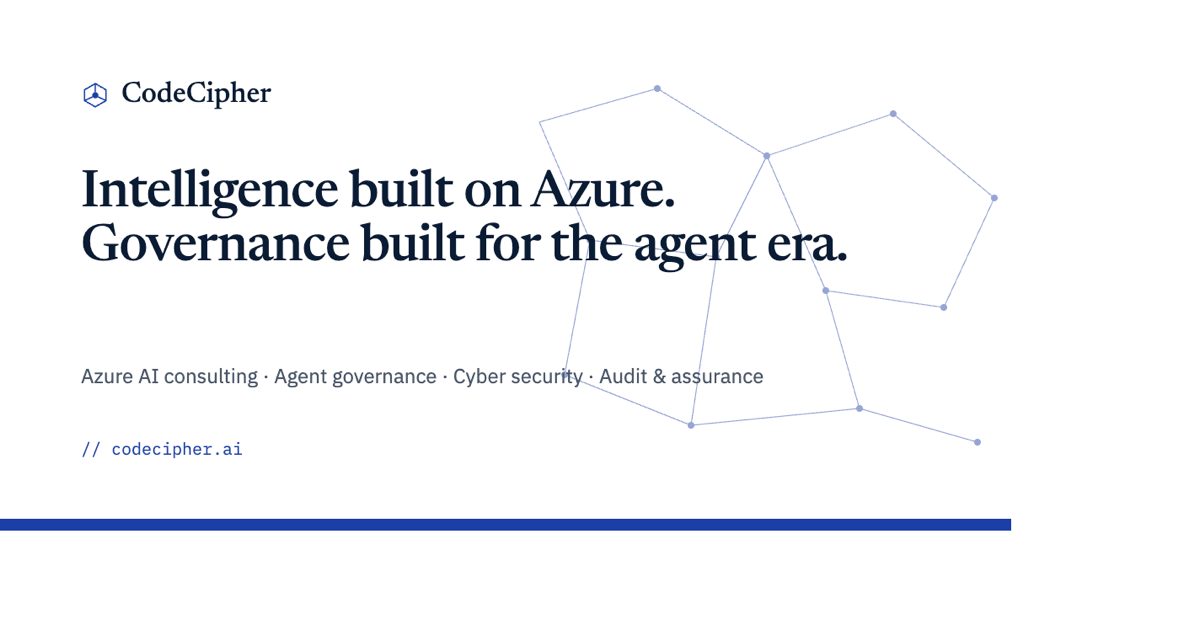
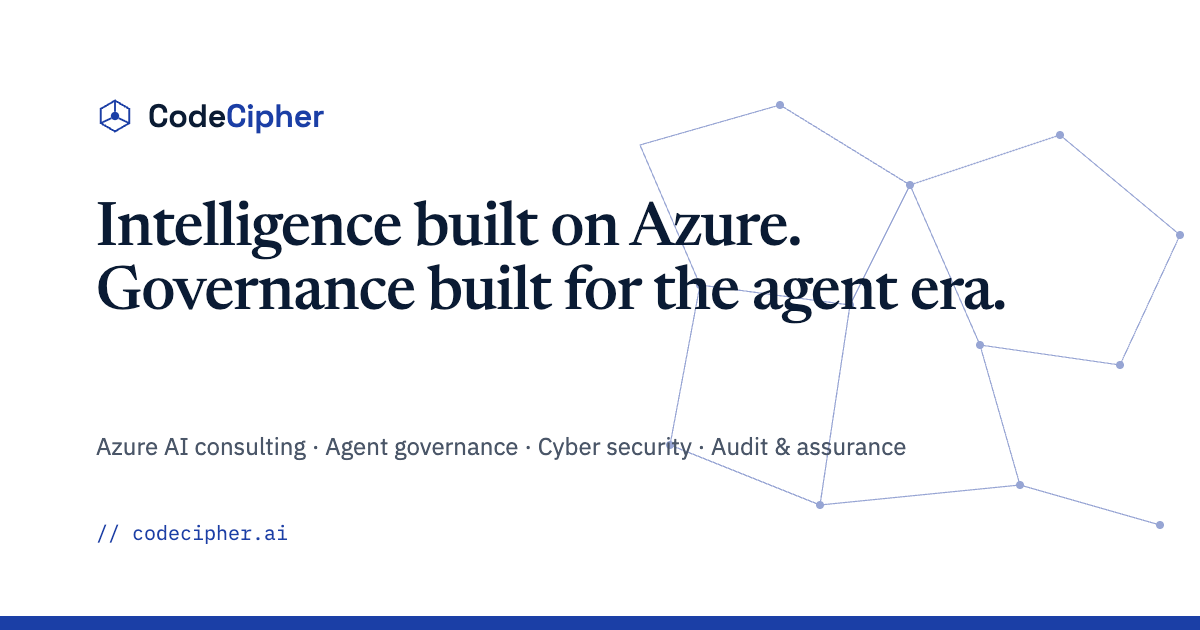
Restore two-tone CodeCipher wordmark in theme colours

diff --git a/assets/main-_-sfEFJ9.css b/assets/main-_-sfEFJ9.css
@@ -1,0 +1,1 @@
+@font-face{font-family:Newsreader;font-style:normal;font-display:swap;font-weight:400;src:url(/assets/newsreader-latin-400-normal-BFBkh4jY.woff2)format("woff2"),url(/assets/newsreader-latin-400-normal-gRTjlS2D.woff)format("woff")}@font-face{font-family:Newsreader;font-style:normal;font-display:swap;font-weight:500;src:url(/assets/newsreader-latin-500-normal-B66TYsaK.woff2)format("woff2"),url(/assets/newsreader-latin-500-normal-DFwuUcdu.woff)format("woff")}@font-face{font-family:Space Grotesk;font-style:normal;font-display:swap;font-weight:600;src:url(/assets/space-grotesk-latin-600-normal-DjKNqYRj.woff2)format("woff2"),url(/assets/space-grotesk-latin-600-normal-BflQw4A9.woff)format("woff")}@font-face{font-family:IBM Plex Sans;font-style:normal;font-display:swap;font-weight:400;src:url(/assets/ibm-plex-sans-latin-400-normal-CDDApCn2.woff2)format("woff2"),url(/assets/ibm-plex-sans-latin-400-normal-CYLoc0-x.woff)format("woff")}@font-face{font-family:IBM Plex Sans;font-style:normal;font-display:swap;font-weight:500;src:url(/assets/ibm-plex-sans-latin-500-normal-6ng42L7E.woff2)format("woff2"),url(/assets/ibm-plex-sans-latin-500-normal-BgVn5rGT.woff)format("woff")}@font-face{font-family:IBM Plex Sans;font-style:normal;font-display:swap;font-weight:600;src:url(/assets/ibm-plex-sans-latin-600-normal-CuJfVYMP.woff2)format("woff2"),url(/assets/ibm-plex-sans-latin-600-normal-Cu4Hd6ag.woff)format("woff")}@font-face{font-family:IBM Plex Mono;font-style:normal;font-display:swap;font-weight:400;src:url(/assets/ibm-plex-mono-latin-400-normal-DMJ8VG8y.woff2)format("woff2"),url(/assets/ibm-plex-mono-latin-400-normal-CvHOgSBP.woff)format("woff")}@font-face{font-family:IBM Plex Mono;font-style:normal;font-display:swap;font-weight:500;src:url(/assets/ibm-plex-mono-latin-500-normal-DSY6xOcd.woff2)format("woff2"),url(/assets/ibm-plex-mono-latin-500-normal-CB9ihrfo.woff)format("woff")}:root{--bg:#f3f4f6;--surface:#fff;--ink:#0b1c33;--muted:#4a5668;--accent:#1b3fa6;--accent-hover:#102a78;--tint:#e4eaf8;--line:#d5dae2;--band:#0b1c33;--band-text:#b8c2d6;--band-line:#3a4a66;--font-display:"Newsreader", Georgia, serif;--font-body:"IBM Plex Sans", system-ui, sans-serif;--font-mono:"IBM Plex Mono", monospace;--font-brand:"Space Grotesk", "IBM Plex Sans", sans-serif;--max:1120px}*{box-sizing:border-box;margin:0;padding:0}html{scroll-behavior:smooth;overflow-x:hidden}body{background:var(--bg);color:var(--ink);font-family:var(--font-body);-webkit-font-smoothing:antialiased;font-size:1.0625rem;line-height:1.6;overflow-x:hidden}h1,h2{font-family:var(--font-display);letter-spacing:-.01em;font-weight:500;line-height:1.08}h2{font-size:clamp(1.9rem,3.4vw,2.6rem)}h3{font-family:var(--font-body);font-size:1.125rem;font-weight:600}a{color:var(--accent);text-decoration:none}a:hover{color:var(--accent-hover);text-decoration:underline}.mono{font-family:var(--font-mono)}:focus-visible{outline:2px solid var(--accent);outline-offset:3px}.eyebrow{color:var(--accent);letter-spacing:.06em;text-transform:lowercase;margin-bottom:.9rem;font-size:.8rem}.nav{z-index:50;background:var(--surface);border-bottom:1px solid var(--line);justify-content:space-between;align-items:center;padding:.9rem clamp(1.2rem,4vw,3rem);display:flex;position:fixed;inset:0 0 auto}.nav__brand{font-family:var(--font-brand);letter-spacing:-.01em;color:var(--ink);align-items:center;gap:.6rem;font-size:1.2rem;font-weight:600;display:flex}.nav__brand:hover{color:var(--ink);text-decoration:none}.nav__brand em{color:var(--accent);font-style:normal}.nav__mark{width:28px;height:28px;color:var(--accent)}.nav__links{align-items:center;gap:clamp(1rem,2.5vw,2rem);display:flex}.nav__links a{color:var(--muted);font-size:.95rem;font-weight:500}.nav__links a:hover{color:var(--ink);text-decoration:none}.nav__cta{background:var(--accent);padding:.55rem 1.1rem;font-weight:600;color:var(--surface)!important}.nav__cta:hover{background:var(--accent-hover)}.btn{font-family:var(--font-body);cursor:pointer;border:1px solid #0000;padding:.85rem 1.5rem;font-size:1rem;font-weight:600;transition:background-color .15s,border-color .15s,color .15s;display:inline-block}.btn:hover{text-decoration:none}.btn--primary{background:var(--accent);border-color:var(--accent);color:var(--surface)}.btn--primary:hover{background:var(--accent-hover);border-color:var(--accent-hover);color:var(--surface)}.btn--ghost{color:var(--ink);border-color:var(--ink);background:var(--surface)}.btn--ghost:hover{background:var(--ink);color:var(--surface)}.hero{text-align:center;background:var(--surface);justify-content:center;align-items:center;min-height:100svh;padding:7rem 1.5rem 5rem;display:flex;position:relative;overflow:hidden}#hero-canvas{background:var(--surface);width:100%;height:100%;position:absolute;inset:0}.hero__veil{pointer-events:none;background:radial-gradient(ellipse 55% 50% at 50% 50%, #ffffffd1 0%, #fff0 100%), linear-gradient(to bottom, #fff0 85%, var(--surface) 100%);position:absolute;inset:0}.hero__inner{max-width:880px;position:relative}.hero__title{color:var(--ink);font-size:clamp(2.2rem,5.4vw,4.1rem)}.hero__title .scramble--accent{color:var(--ink)}.hero__lede{max-width:620px;color:var(--muted);margin:1.6rem auto 2.3rem;font-size:clamp(1rem,1.6vw,1.15rem)}.hero__ctas{flex-wrap:wrap;justify-content:center;gap:.8rem;display:flex}.hero__ticker{letter-spacing:.04em;color:var(--muted);flex-wrap:wrap;justify-content:center;gap:2.6rem;font-size:.72rem;display:flex;position:absolute;bottom:1.2rem;left:0;right:0}.hero__ticker span:before{content:"▸ ";color:var(--accent)}.trust{border-block:1px solid var(--line);background:var(--tint);text-align:center;padding:1rem 1.5rem}.trust__line{font-family:var(--font-mono);color:var(--ink);font-size:.85rem}.trust__line strong{color:var(--ink);font-weight:500}.section{max-width:var(--max);margin:0 auto;padding:clamp(4.5rem,9vw,7.5rem) 1.5rem}.section__head{max-width:720px;margin-bottom:3rem}.section__lede{color:var(--muted);margin-top:1.1rem}.cards{grid-template-columns:repeat(auto-fit,minmax(240px,1fr));gap:1rem;display:grid}.card{background:var(--surface);border:1px solid var(--line);padding:1.7rem 1.5rem;transition:border-color .2s}.card:hover{border-color:var(--accent)}.card__icon{width:30px;height:30px;color:var(--accent);margin-bottom:1rem}.card h3{margin-bottom:.55rem}.card p{color:var(--muted);font-size:.95rem}.section--band{background:var(--band);max-width:none;color:var(--surface);text-align:left}.section--band>*{max-width:var(--max);margin-inline:auto}.section--band .eyebrow{color:var(--band-text)}.stats{grid-template-columns:repeat(auto-fit,minmax(250px,1fr));gap:2.2rem;display:grid}.stat{border-top:1px solid var(--band-line);padding-top:1.2rem}.stat__num{font-family:var(--font-display);color:var(--surface);margin-bottom:.7rem;font-size:clamp(2.8rem,5vw,3.6rem);font-weight:500;line-height:1;display:block}.stat__label{color:var(--band-text);max-width:34ch;font-size:.95rem;display:block}.about{grid-template-columns:1.2fr 1fr;align-items:center;gap:3rem;display:grid}.about__text h2{margin-bottom:1.2rem}.about__text p{color:var(--muted);margin-bottom:1rem}.about__panel{background:var(--surface);border:1px solid var(--line);color:var(--ink);white-space:pre;padding:1.6rem 1.7rem;font-size:.85rem;line-height:2;overflow-x:auto}.about__panel p:first-child{color:var(--accent)}.about__panel .dim{color:var(--muted)}.about__panel .ok{color:var(--accent)}.section--contact{padding-bottom:6rem}.contact{grid-template-columns:1.4fr 1fr;gap:3rem;display:grid}.contact__form{flex-direction:column;gap:1.1rem;display:flex}.contact__form label{flex-direction:column;gap:.4rem;display:flex}.contact__form label span{font-family:var(--font-mono);letter-spacing:.06em;color:var(--muted);text-transform:uppercase;font-size:.78rem}.contact__form input,.contact__form textarea{background:var(--surface);border:1px solid var(--line);color:var(--ink);font-family:var(--font-body);padding:.8rem 1rem;font-size:1rem}.contact__form input:focus,.contact__form textarea:focus{border-color:var(--accent);box-shadow:0 0 0 3px var(--tint);outline:none}.contact__form button{align-self:flex-start;margin-top:.4rem}.contact__note{color:var(--muted);font-size:.82rem}.contact__details{flex-direction:column;gap:1.8rem;display:flex}.contact__details h3{font-family:var(--font-mono);letter-spacing:.08em;text-transform:uppercase;color:var(--accent);margin-bottom:.4rem;font-size:.78rem}.contact__details p{color:var(--muted)}.contact--details-only{grid-template-columns:1fr}.contact--details-only .contact__details{flex-flow:wrap;gap:3rem 5rem}.footer{border-top:1px solid var(--line);color:var(--muted);flex-wrap:wrap;justify-content:space-between;align-items:center;gap:1rem;padding:1.6rem clamp(1.2rem,4vw,3rem);font-size:.88rem;display:flex}.footer nav{gap:1.4rem;display:flex}.footer a{color:var(--muted)}.footer a:hover{color:var(--ink)}.js .reveal{opacity:0;transform:translateY(28px)}@media (width<=860px){.about,.contact{grid-template-columns:1fr}.nav__links a:not(.nav__cta),.hero__ticker{display:none}}@media (prefers-reduced-motion:reduce){html{scroll-behavior:auto}*,:before,:after{transition:none!important;animation:none!important}.js .reveal{opacity:1;transform:none}}.cards--five{grid-template-columns:repeat(6,1fr)}.cards--five>.card{grid-column:span 2}.cards--five>.card:nth-child(n+4){grid-column:span 3}@media (width<=860px){.cards--five{grid-template-columns:1fr}.cards--five>.card,.cards--five>.card:nth-child(n+4){grid-column:auto}.about__panel{white-space:pre-wrap}}.page{max-width:720px;margin:0 auto;padding:7.5rem 1.5rem 5rem}.page h1{margin-bottom:1.2rem;font-size:clamp(2rem,4vw,2.8rem)}.page h2{font-family:var(--font-body);margin:2rem 0 .6rem;font-size:1.15rem;font-weight:600}.page p,.page li{color:var(--muted);margin-bottom:1rem}.page ul{padding-left:1.2rem}.page li{margin-bottom:.4rem}.page--center{text-align:center;padding-top:10rem}.page--center .stat__num{color:var(--accent);margin-bottom:1rem;font-size:clamp(4rem,12vw,7rem)}.page--center .btn{margin-top:1.5rem}

diff --git a/index.html b/index.html
@@ -16,8 +16,8 @@
   <meta name="twitter:card" content="summary_large_image" />
   <link rel="canonical" href="https://codecipher.ai/" />
   <link rel="icon" href="/favicon.svg" type="image/svg+xml" />
-  <script type="module" crossorigin src="/assets/main-CBaXB4p3.js"></script>
-  <link rel="stylesheet" crossorigin href="/assets/main-CxtsKVyw.css">
+  <script type="module" crossorigin src="/assets/main-B9XbCqpm.js"></script>
+  <link rel="stylesheet" crossorigin href="/assets/main-_-sfEFJ9.css">
 </head>
 <body>
 

diff --git a/privacy.html b/privacy.html
@@ -9,7 +9,7 @@
   <meta name="robots" content="noindex" />
   <link rel="canonical" href="https://codecipher.ai/privacy.html" />
   <link rel="icon" href="/favicon.svg" type="image/svg+xml" />
-  <link rel="stylesheet" crossorigin href="/assets/main-CxtsKVyw.css">
+  <link rel="stylesheet" crossorigin href="/assets/main-_-sfEFJ9.css">
 </head>
 <body>
 

diff --git a/404.html b/404.html
@@ -7,7 +7,7 @@
   <title>Page not found — CodeCipher</title>
   <meta name="robots" content="noindex" />
   <link rel="icon" href="/favicon.svg" type="image/svg+xml" />
-  <link rel="stylesheet" crossorigin href="/assets/main-CxtsKVyw.css">
+  <link rel="stylesheet" crossorigin href="/assets/main-_-sfEFJ9.css">
 </head>
 <body>
 
